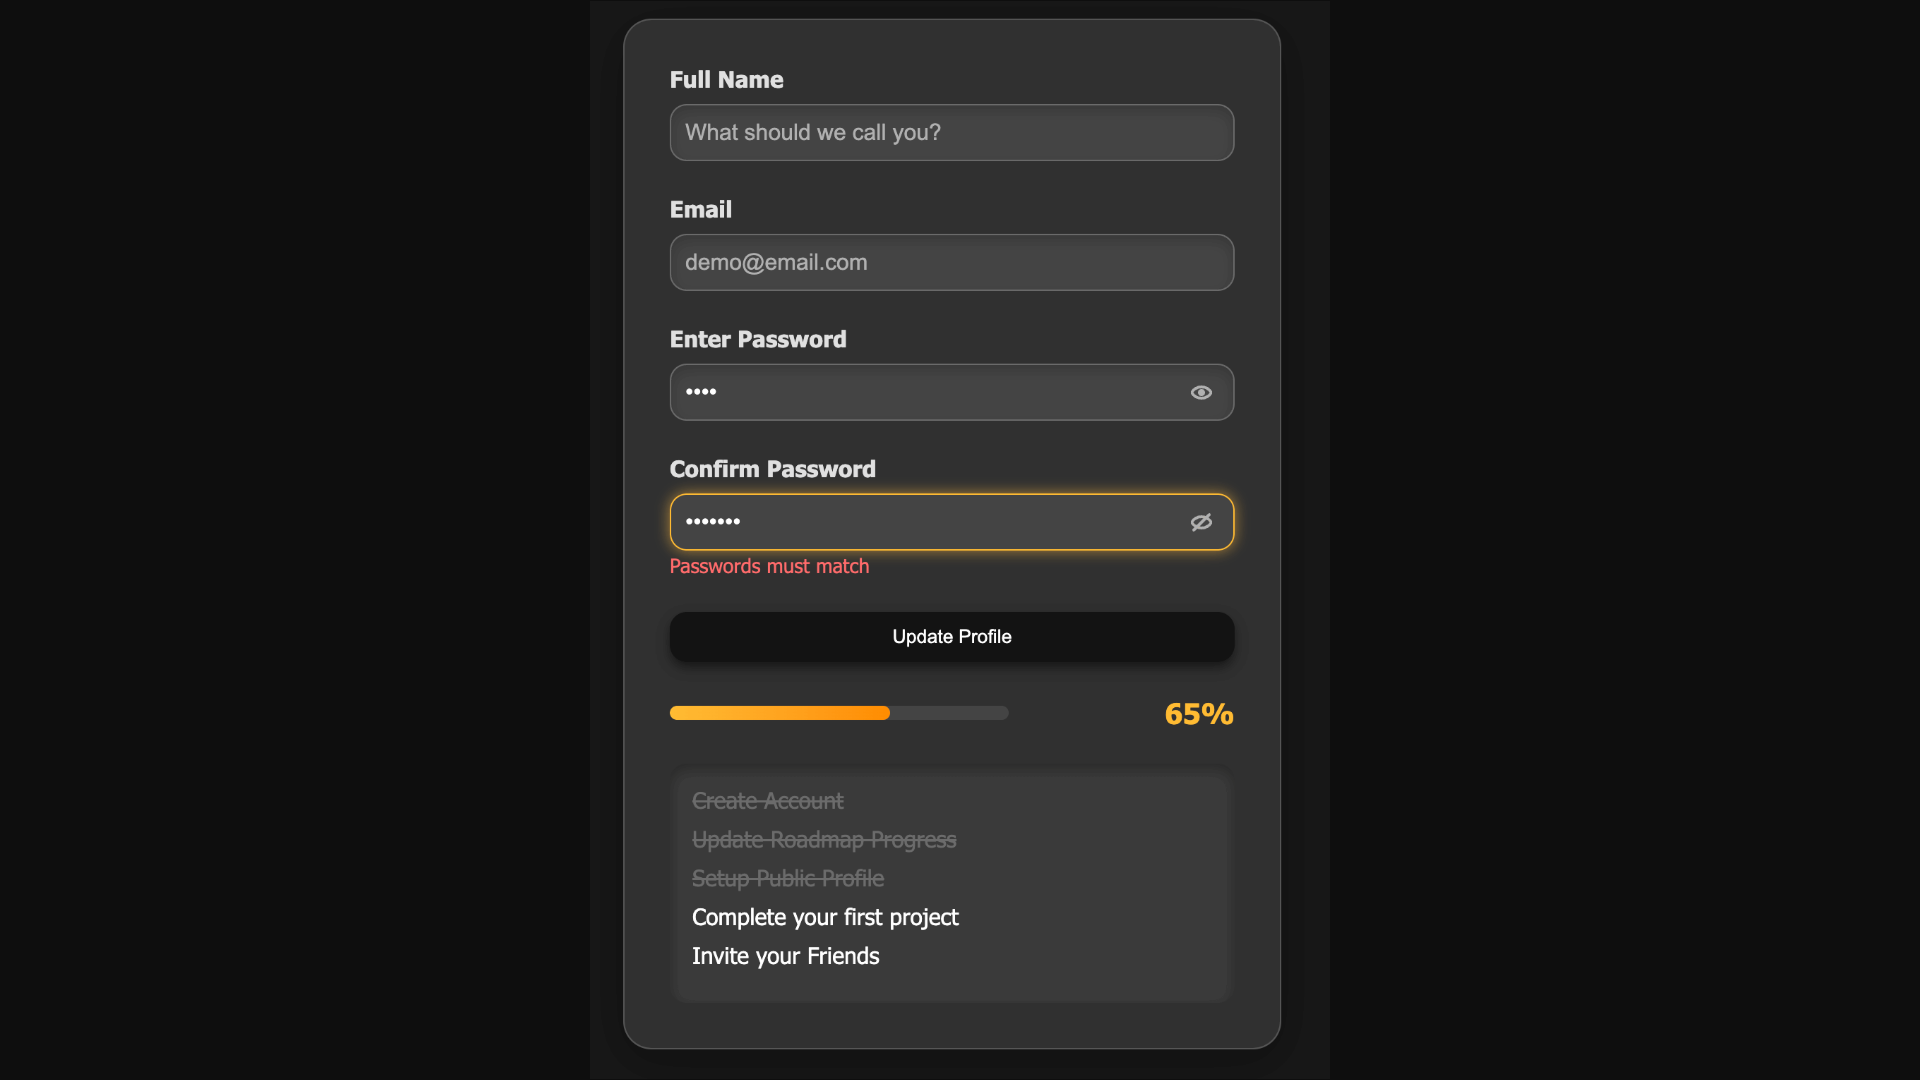
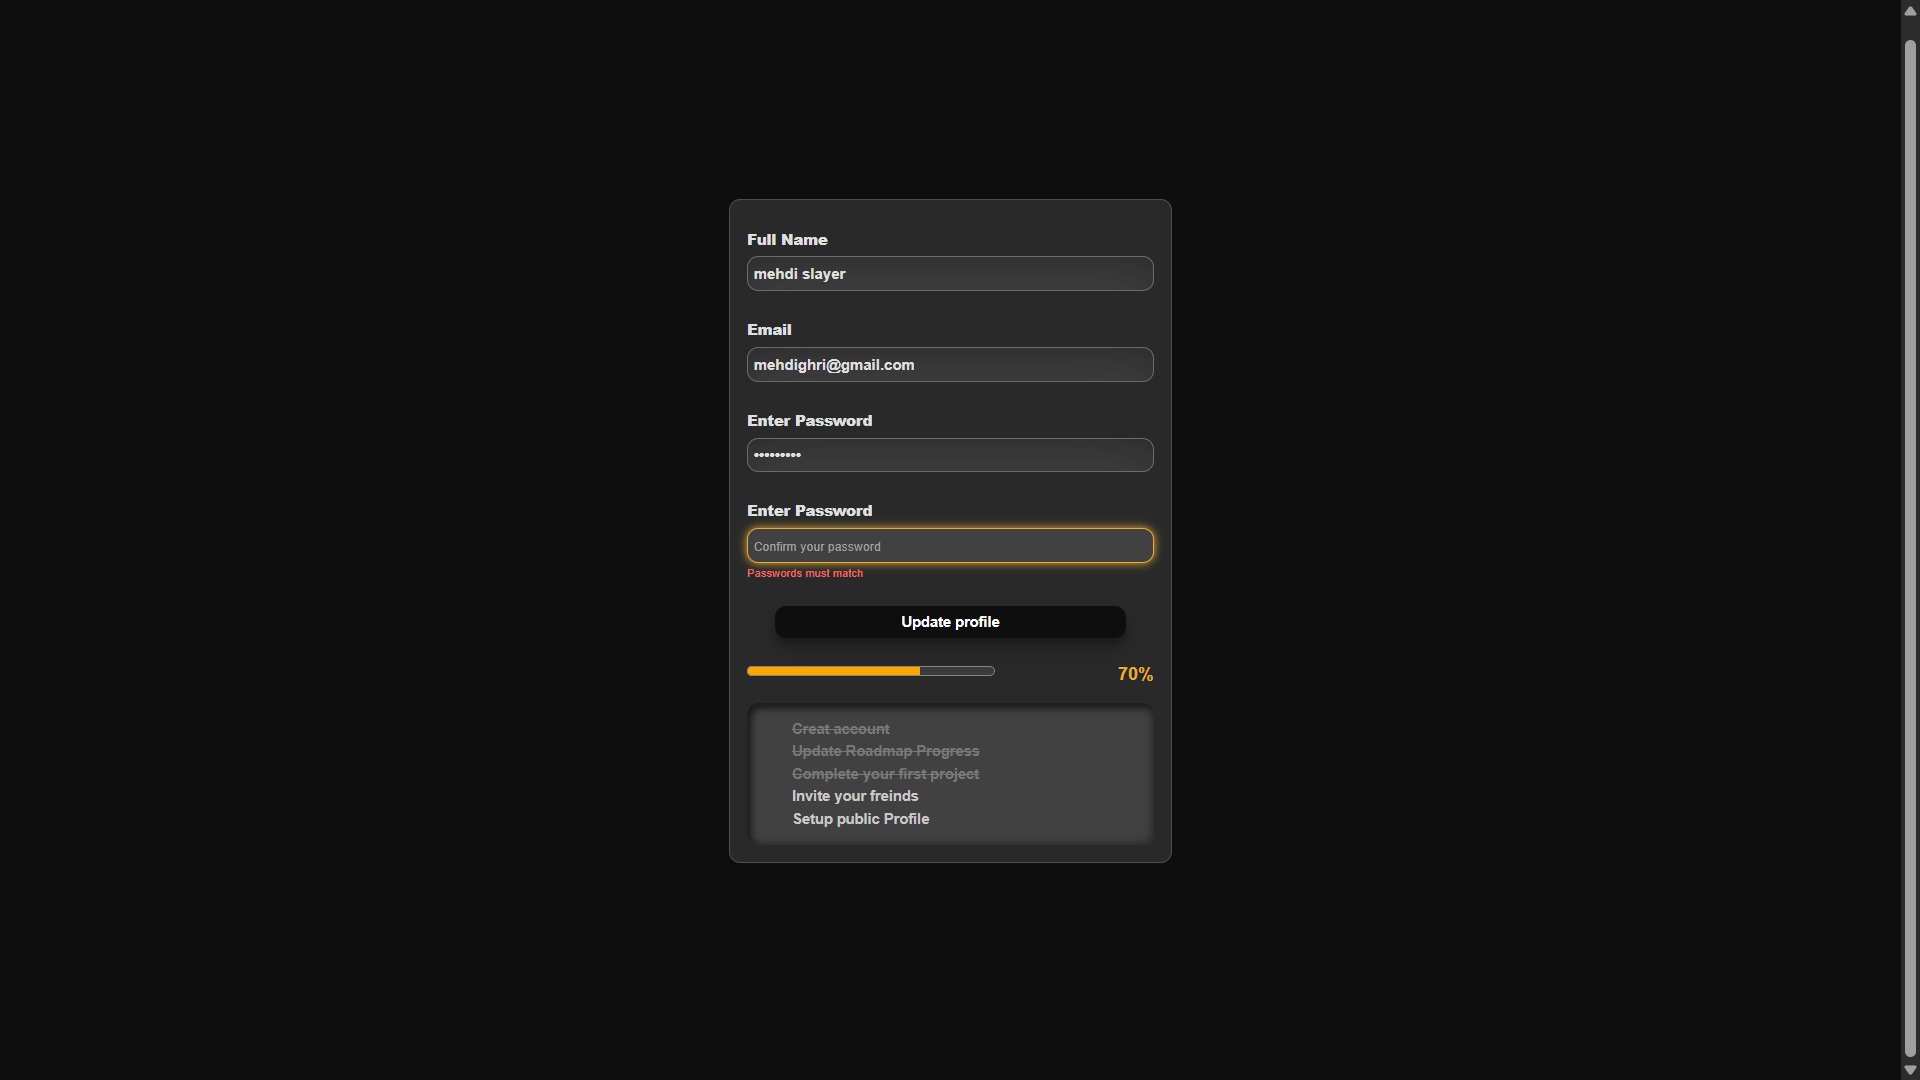
changes the preview photo

Changed region(s): [[0.3125, 0.0, 0.6875, 0.9778], [0.9688, 0.0, 1.0, 1.0]]

diff --git a/README.md b/README.md
@@ -1,0 +1,7 @@
+Accesisble form ui project from roadmap.sh.
+design was insired by Ashton Hill.
+
+![alt text](preview.png)
+
+here is link to roadmap.sh website:
+https://roadmap.sh/projects/accessible-form-ui
